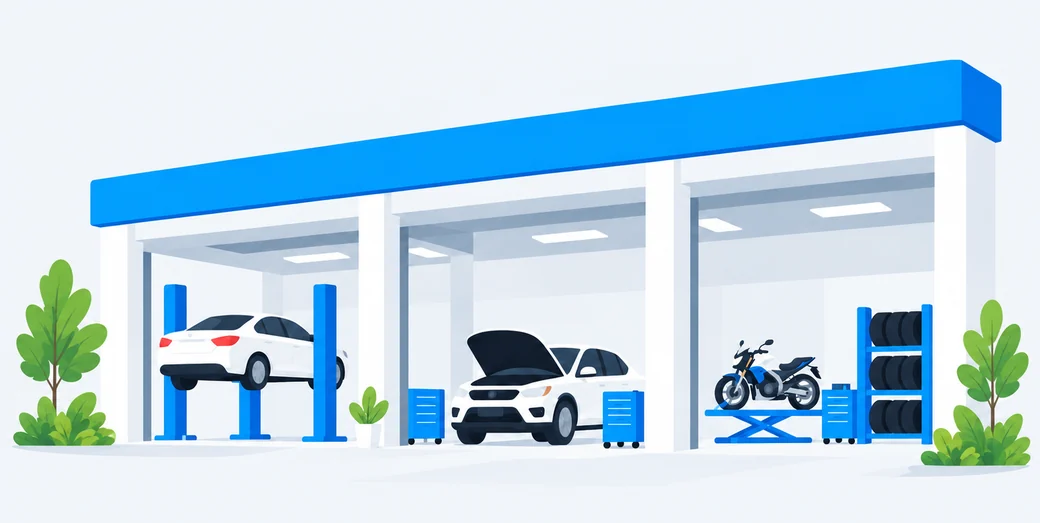
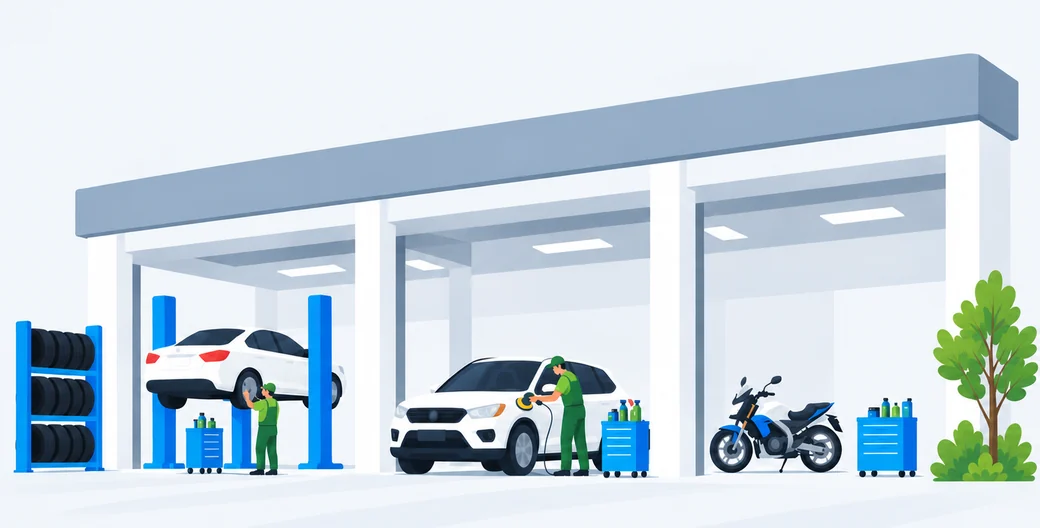
replace shop image

diff --git a/shops-we-serve.html b/shops-we-serve.html
@@ -529,7 +529,7 @@ footer .q svg{width:30px;height:30px;flex:none}
         <h1>Built for the shops that keep Filipino vehicles on the road.</h1>
         <p class="head-lede">Repair and tire shops come first, and Autometrik grew up with them. The same job orders, sales, inventory and SMS reminders also run auto supply stores, detailing studios and motorcycle shops.</p>
       </div>
-      <div class="head-img"><img class="head-photo" src="img/shops.webp?v=9" width="1040" height="523" loading="lazy" alt="A modern auto shop with open service bays: a car on a lift, a car with its hood open beside tool carts, and a motorcycle on a lift next to a tire rack"></div>
+      <div class="head-img"><img class="head-photo" src="img/shops.webp?v=10" width="1040" height="528" loading="lazy" alt="A modern auto shop with open service bays: a mechanic working under a car on a lift beside a tire rack, a detailer polishing an SUV, and a motorcycle next to tool carts"></div>
     </div>
     <div class="shops-main">
       <article class="shop feat">
